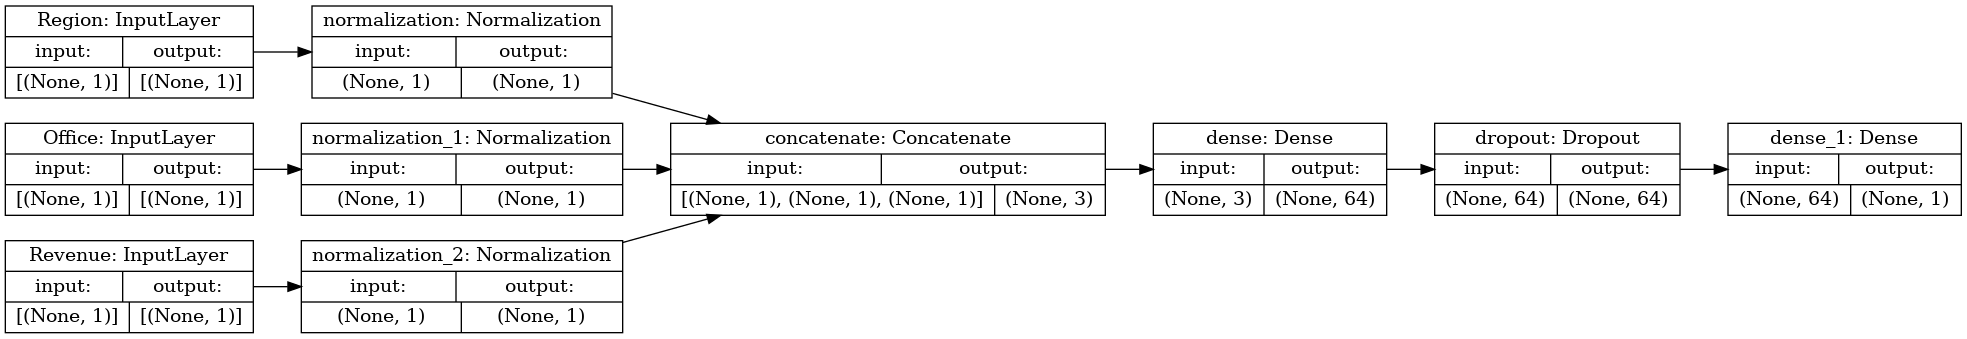
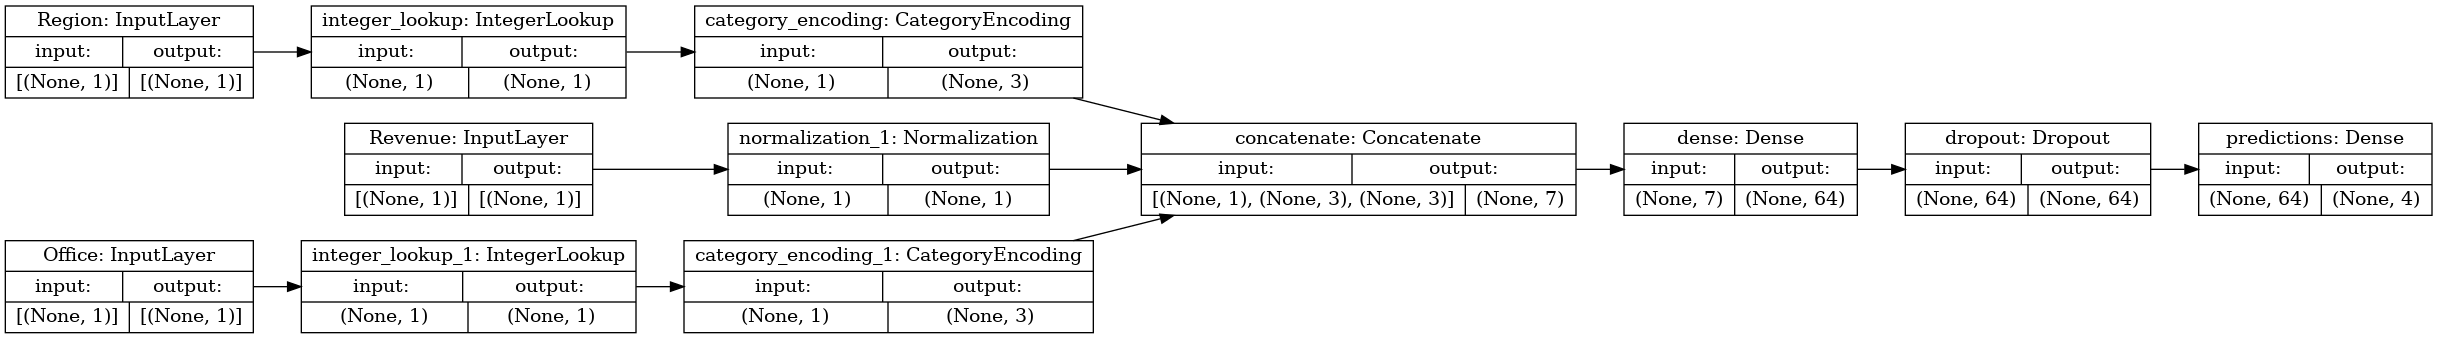
Minor changes regarding preprocessing

diff --git a/preprocessing_layers.py b/preprocessing_layers.py
@@ -67,10 +67,10 @@ Following is a description of this dataset. Notice there are both numeric and ca
 
 Column | Description| Feature Type | Data Type
 ------------|--------------------|----------------------|-----------------
-Region | Region identifier (10, 20, 30, 40) | Categorical | integer
-Office | Office identifier (100, 200, 300, 400) | Categorical | integer
-Revenue | Customer revenue | Classification | float64
-Segment | belong to segment | target | string
+Region | Region identifier (10, 20, 30, 40) | Numerical | integer
+Office | Office identifier (100, 200, 300, 400) | Numerical | integer
+Revenue | Customer revenue | Numerical | float64
+Segment | belong to segment | Classification | string
 
 """
 
@@ -202,9 +202,9 @@ def get_normalization_layer(name, dataset):
 
   return normalizer
 
-# revenue_count_col = train_features['Revenue']
-# layer = get_normalization_layer('Revenue', train_ds)
-# layer(revenue_count_col)
+revenue_count_col = train_features['Revenue']
+layer = get_normalization_layer('Revenue', train_ds)
+layer(revenue_count_col)
 
 """Note: If you many numeric features (hundreds, or more), 
 it is more efficient to concatenate them first and use a single 
@@ -288,7 +288,7 @@ all_inputs = []
 encoded_features = []
 
 # Numeric features.
-for header in ['Region', 'Office', 'Revenue']:
+for header in ['Revenue']:
   numeric_col = tf.keras.Input(shape=(1,), name=header)
   normalization_layer = get_normalization_layer(header, train_ds)
   encoded_numeric_col = normalization_layer(numeric_col)
@@ -296,18 +296,18 @@ for header in ['Region', 'Office', 'Revenue']:
   encoded_features.append(encoded_numeric_col)
 
 # Categorical features encoded as integers. (Region)
-#region_col = tf.keras.Input(shape=(1,), name='Region', dtype='float64')
-#encoding_layer = get_category_encoding_layer('Region', train_ds, dtype='float64', max_tokens=5)
-#encoded_region_col = encoding_layer(region_col)
-#all_inputs.append(region_col)
-#encoded_features.append(encoded_region_col)
+region_col = tf.keras.Input(shape=(1,), name='Region', dtype='int64')
+encoding_layer = get_category_encoding_layer('Region', train_ds, dtype='int64', max_tokens=5)
+encoded_region_col = encoding_layer(region_col)
+all_inputs.append(region_col)
+encoded_features.append(encoded_region_col)
 
 # Categorical features encoded as integers. (Office)
-#office_col = tf.keras.Input(shape=(1,), name='Office', dtype='float64')
-#encoding_layer = get_category_encoding_layer('Office', train_ds, dtype='float64', max_tokens=5)
-#encoded_office_col = encoding_layer(office_col)
-#all_inputs.append(office_col)
-#encoded_features.append(encoded_office_col)
+office_col = tf.keras.Input(shape=(1,), name='Office', dtype='int64')
+encoding_layer = get_category_encoding_layer('Office', train_ds, dtype='int64', max_tokens=5)
+encoded_office_col = encoding_layer(office_col)
+all_inputs.append(office_col)
+encoded_features.append(encoded_office_col)
 
 # Categorical features encoded as string. (Om vi hade haft namn på Region och Office hade vi använd denna funktion)
 # categorical_cols = ['Type', 'Color1', 'Color2', 'Gender', 'MaturitySize', 'FurLength', 'Vaccinated', 'Sterilized', 'Health', 'Breed1']
@@ -322,14 +322,15 @@ for header in ['Region', 'Office', 'Revenue']:
 
 Now you can create our end-to-end model.
 """
+print(encoded_features)
 
 all_features = tf.keras.layers.concatenate(encoded_features)
 x = tf.keras.layers.Dense(64, activation="relu")(all_features)
 x = tf.keras.layers.Dropout(0.2)(x)
-output = tf.keras.layers.Dense(1)(x)
-model = tf.keras.Model(all_inputs, output)
+output = tf.keras.layers.Dense(4, activation="softmax", name="predictions")(x)
+model = tf.keras.Model(inputs=all_inputs, outputs=output)
 model.compile(optimizer='adam',
-              loss=tf.keras.losses.CategoricalCrossentropy(from_logits=True),
+              loss=tf.keras.losses.SparseCategoricalCrossentropy(from_logits=True),
               metrics=["accuracy"])
 
 """Let's visualize our connectivity graph:"""
@@ -366,16 +367,16 @@ reloaded_model = tf.keras.models.load_model('my_segment_classifier')
 sample = {
     'Region': 10.0,
     'Office': 100.0,
-    'Revenue': 900000.0,
+    'Revenue': 4900000.0,
 }
 
 predict_x = {
         'Region': [10.0],
         'Office': [100.0],
-        'Revenue': [1291950.0],
+        'Revenue': [1500000.0],
 }
 
-input_dict = {name: tf.convert_to_tensor([value]) for name, value in sample.items()}
+input_dict = {name: tf.convert_to_tensor([value]) for name, value in predict_x.items()}
 predictions = reloaded_model.predict(input_dict)
 print(input_dict)
 prob = tf.nn.sigmoid(predictions[0])

diff --git a/train_segment.py b/train_segment.py
@@ -7,13 +7,15 @@ from tensorflow import keras
 import pandas as pd
 import numpy as np
 import datetime
-
-# Define all column in the dataset
 #
+#from sklearn.model_selection import train_test_split
+#from tensorflow.keras import layers
+from tensorflow.keras.layers.experimental import preprocessing
+#
+# Define all column in the dataset
 CSV_COLUMN_NAMES = ['Region', 'Office', 'Revenue', 'Segment']
 # Target column to predict
 LABELS = ['mini', 'micro', 'mellan', 'stor']
-
 #
 # train the model
 #
@@ -92,12 +94,34 @@ with tf.device("/device:GPU:0"):
     #    feature_columns.append(tf.feature_column.numeric_column(feature_name, dtype=tf.float32))
     #
     # Feature columns describe how to use the input.
+    def get_normalization_layer(name, dataset):
+        # Create a Normalization layer for our feature.
+        normalizer = preprocessing.Normalization()
+        # Prepare a Dataset that only yields our feature.
+        feature_ds = dataset.map(lambda x, y: x[name])
+        # Learn the statistics of the data.
+        normalizer.adapt(feature_ds)
+        return normalizer
+    #
     my_feature_columns = []
+    #vocabulary = []
     # ================ Comment out =======================
     for key in dftrain.keys():
-        #if key in 'Revenue': {
+        if key in 'Revenue': {
             my_feature_columns.append(tf.feature_column.numeric_column(key=key))
-        #}
+        }
+        if key in 'Region': {
+            #vocabulary = set(dftrain[key].unique())
+            #my_feature_columns.append(tf.feature_column.categorical_column_with_vocabulary_list(key=key, vocabulary))
+            #my_feature_columns.append(tf.feature_column.numeric_column(key=key, normalizer_fn=get_normalization_layer(key, dftrain)))
+            my_feature_columns.append(tf.feature_column.numeric_column(key=key))
+        }
+        if key in 'Office': {
+            #vocabulary = dftrain[key].unique()
+            #my_feature_columns.append(tf.feature_column.categorical_column_with_vocabulary_list(key=key, vocabulary))
+            my_feature_columns.append(tf.feature_column.numeric_column(key=key))
+        }
+    #
     # ================ Comment out =======================
     print("-my_feature_columns ------------------------------------------------------")
     print(my_feature_columns)
